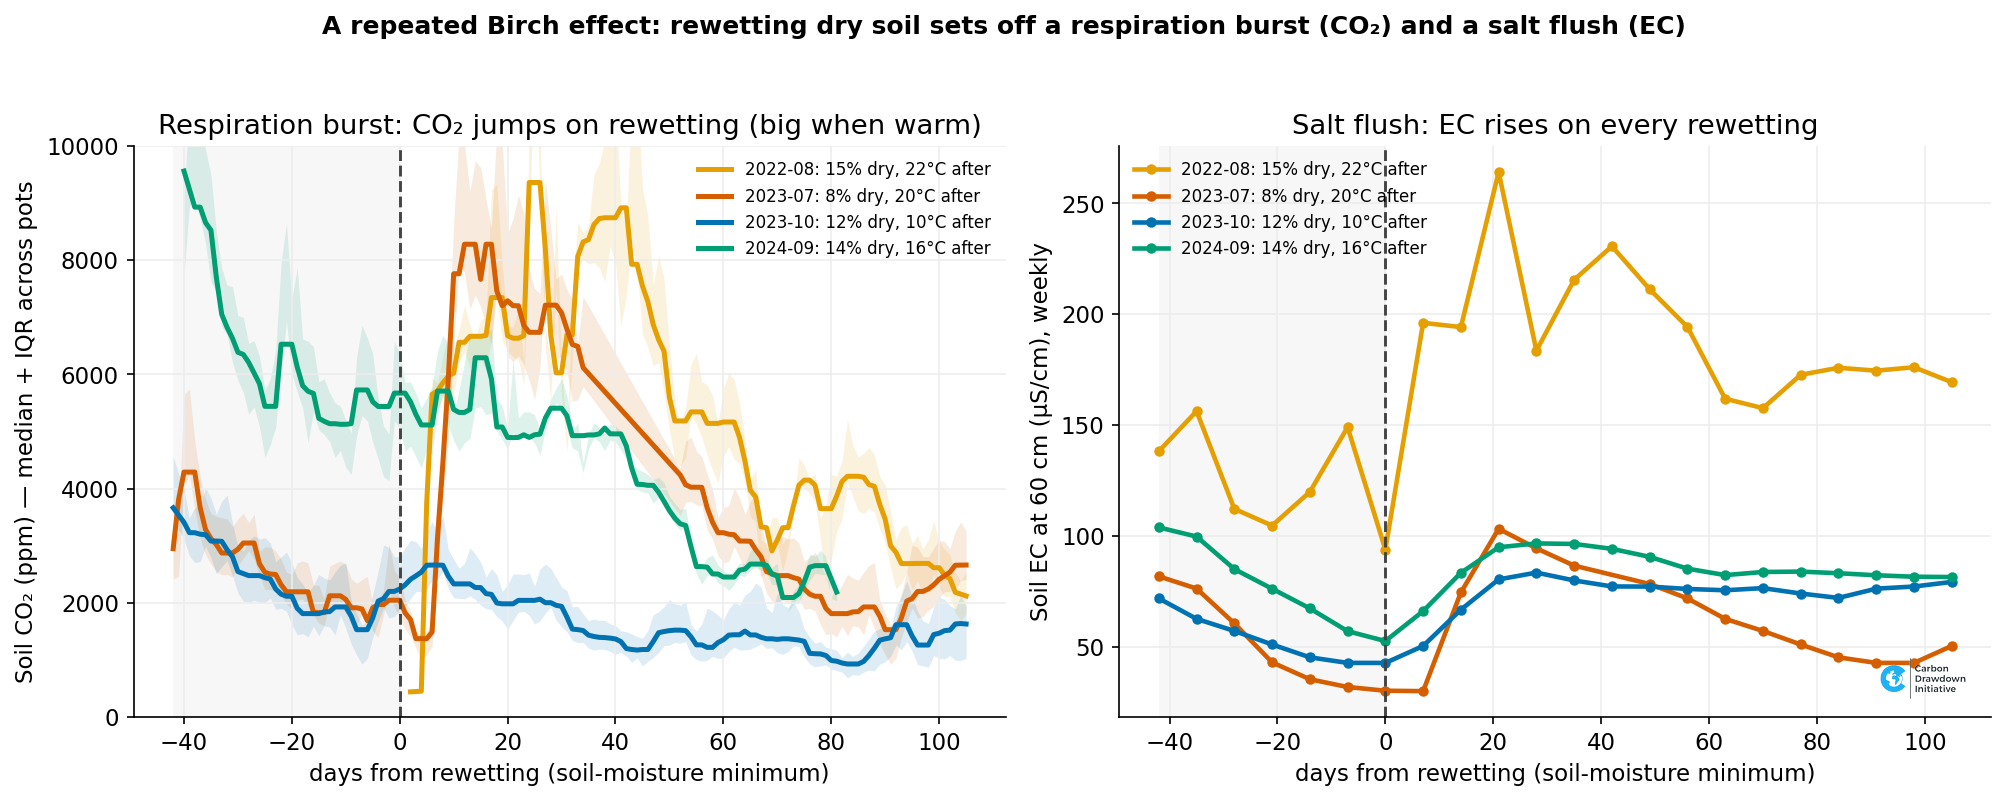
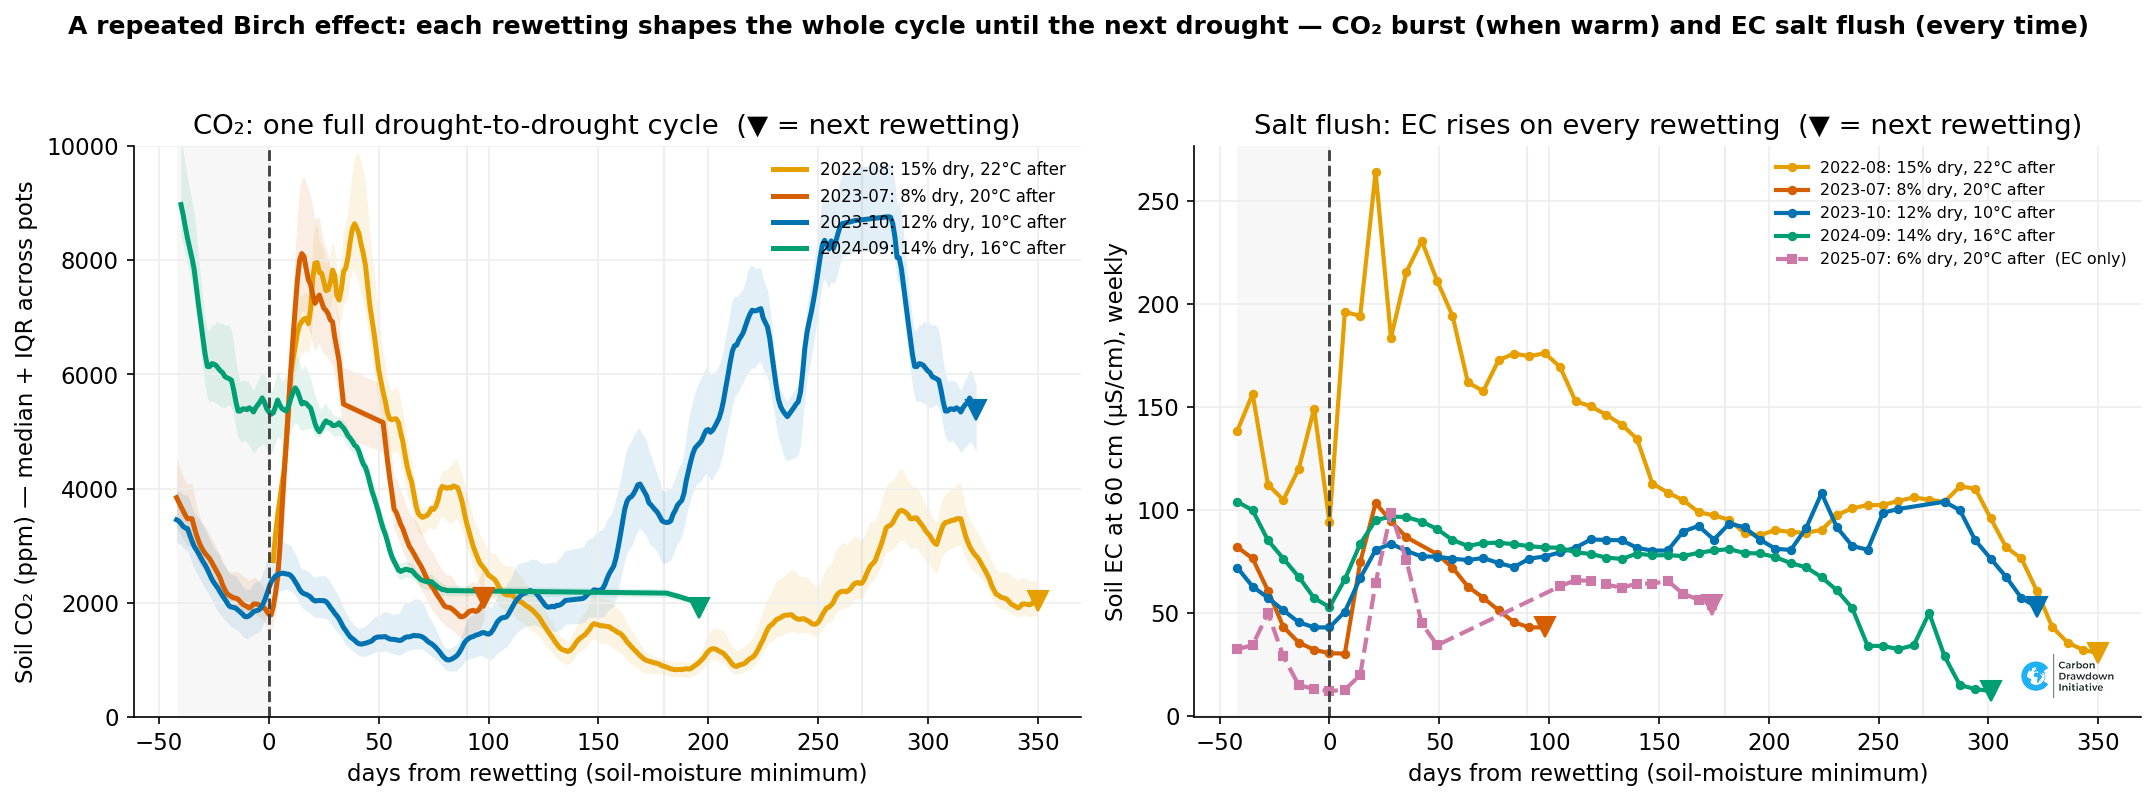
co2_5: full drought-to-drought cycle per event (to next rewetting) + 2025 EC-only
Claude-Session: https://claude.ai/code/session_01SoHibQkbNyYkYkHySep8L1

diff --git a/code/xxl_lysimeter_soil_co2.py b/code/xxl_lysimeter_soil_co2.py
@@ -247,20 +247,18 @@ def main():
     fig.savefig(FIG / "co2_4_engine_not_meter.png", bbox_inches="tight")
     plt.close(fig)
 
-    # ============ FIGURE 5: a repeated Birch effect (rewetting) =====================
-    # Align soil CO2 (daily) and soil EC (weekly) at each deep dry->wet transition.
+    # ============ FIGURE 5: a repeated Birch effect (one drought-to-drought cycle) ==
+    # Align soil CO2 (daily) and soil EC (weekly) at each deep dry->wet transition and run
+    # each curve to the NEXT rewetting (marker v) — one full cycle per event. The 2025 event
+    # has no CO2 (sensors gone) but still shows in EC.
     ec = _site_weekly("soil_ec_60cm.xlsx", "EC.60", 1, 2000)
-    co2day = co2.groupby("date")["soil_co2_ppm"].median().sort_index()
     mser = moday.sort_index(); mv = mser.values; md = mser.index
     evs = []
-    for i in range(1, len(mv) - 1):                       # deep moisture minima that rewet
+    for i in range(1, len(mv) - 1):                       # all deep moisture minima that rewet
         if mv[i] <= mv[i - 1] and mv[i] < mv[i + 1] and mv[i] < 16:
             fwd = mser[(md > md[i]) & (md <= md[i] + pd.Timedelta(days=28))]
             if len(fwd) and fwd.max() - mv[i] >= 6:
-                n = ((co2day.index >= md[i] - pd.Timedelta(days=21)) &
-                     (co2day.index <= md[i] + pd.Timedelta(days=42))).sum()
-                if n > 10:                                # needs CO2 coverage (2025 event has none)
-                    evs.append((md[i], mv[i]))
+                evs.append((md[i], float(mv[i])))
     pr = []                                               # prune events closer than 30 days
     for e in sorted(evs):
         if pr and (e[0] - pr[-1][0]).days < 30:
@@ -269,32 +267,46 @@ def main():
         else:
             pr.append(e)
     ecolors = [OK["orange"], OK["verm"], OK["blue"], OK["green"], OK["purple"]]
-    W0, W1 = -42, 105
-    fig, (b0, b1) = plt.subplots(1, 2, figsize=(13.5, 5.4))
+    tmax = ec.index.max()                                 # last event runs to the data end
+    smooth = lambda s: s.rolling(11, center=True, min_periods=3).mean()
+    fig, (b0, b1) = plt.subplots(1, 2, figsize=(14.5, 5.4))
     for k, (t0, mn) in enumerate(pr):
         c = ecolors[k % len(ecolors)]
+        W1 = (pr[k + 1][0] - t0).days if k + 1 < len(pr) else (tmax - t0).days
         post = tday[(tday.index >= t0) & (tday.index <= t0 + pd.Timedelta(days=14))].mean()
-        lab = f"{t0.strftime('%Y-%m')}: {mn:.0f}% dry, {post:.0f}°C after"
-        sub = co2[(co2.date >= t0 + pd.Timedelta(days=W0)) & (co2.date <= t0 + pd.Timedelta(days=W1))].copy()
+        sub = co2[(co2.date >= t0 - pd.Timedelta(days=42)) & (co2.date <= t0 + pd.Timedelta(days=W1))].copy()
         sub["rel"] = (sub.date - t0).dt.days
-        g = sub.groupby("rel")["soil_co2_ppm"]; med = g.median(); q1 = g.quantile(.25); q3 = g.quantile(.75)
-        b0.fill_between(med.index, q1.values, q3.values, color=c, alpha=0.13, lw=0)
-        b0.plot(med.index, med.rolling(5, center=True, min_periods=2).median().values, color=c, lw=2.4, label=lab)
-        we = ec[(ec.index >= t0 + pd.Timedelta(days=W0)) & (ec.index <= t0 + pd.Timedelta(days=W1))]
-        b1.plot((we.index - t0).days, we.values, "-o", color=c, lw=2.2, ms=4, label=lab)
+        has_co2 = int(sub["rel"].between(0, 42).sum()) > 10
+        lab = f"{t0.strftime('%Y-%m')}: {mn:.0f}% dry, {post:.0f}°C after" + ("" if has_co2 else "  (EC only)")
+        if has_co2:
+            g = sub.groupby("rel")["soil_co2_ppm"]
+            med = smooth(g.median()).dropna()
+            b0.fill_between(g.median().index, smooth(g.quantile(.25)).values,
+                            smooth(g.quantile(.75)).values, color=c, alpha=0.11, lw=0)
+            b0.plot(med.index, med.values, "-", color=c, lw=2.4, label=lab)
+            if len(med):
+                b0.plot(med.index[-1], med.values[-1], "v", color=c, ms=10, zorder=7)
+        we = ec[(ec.index >= t0 - pd.Timedelta(days=42)) & (ec.index <= t0 + pd.Timedelta(days=W1))]
+        rel = (we.index - t0).days
+        b1.plot(rel, we.values, "-o" if has_co2 else "--s", color=c, lw=2.0, ms=3.5, label=lab)
+        if len(we):
+            b1.plot(rel[-1], we.values[-1], "v", color=c, ms=10, zorder=7)
     for ax in (b0, b1):
         ax.axvline(0, color="#444", ls="--", lw=1.4)
-        ax.axvspan(W0, 0, color=OK["grey"], alpha=0.07, lw=0)
+        ax.axvspan(-42, 0, color=OK["grey"], alpha=0.07, lw=0)
+        for x in (90, 180, 270):
+            ax.axvline(x, color="#ededed", lw=1, zorder=0)
     b0.set_ylim(0, 10000)
     b0.set_ylabel("Soil CO₂ (ppm) — median + IQR across pots")
     b0.set_xlabel("days from rewetting (soil-moisture minimum)")
-    b0.set_title("Respiration burst: CO₂ jumps on rewetting (big when warm)")
+    b0.set_title("CO₂: one full drought-to-drought cycle  (▼ = next rewetting)")
     b0.legend(frameon=False, fontsize=8, loc="upper right")
     b1.set_ylabel("Soil EC at 60 cm (µS/cm), weekly")
     b1.set_xlabel("days from rewetting (soil-moisture minimum)")
-    b1.set_title("Salt flush: EC rises on every rewetting")
-    b1.legend(frameon=False, fontsize=8, loc="upper left")
-    fig.suptitle("A repeated Birch effect: rewetting dry soil sets off a respiration burst (CO₂) and a salt flush (EC)",
+    b1.set_title("Salt flush: EC rises on every rewetting  (▼ = next rewetting)")
+    b1.legend(frameon=False, fontsize=7.6, loc="upper right")
+    fig.suptitle("A repeated Birch effect: each rewetting shapes the whole cycle until the next drought "
+                 "— CO₂ burst (when warm) and EC salt flush (every time)",
                  fontsize=12, weight="bold")
     fig.tight_layout(rect=(0, 0, 1, 0.95))
     brand.add_logo(fig, ax=b1, loc="lower right", frac=0.12)